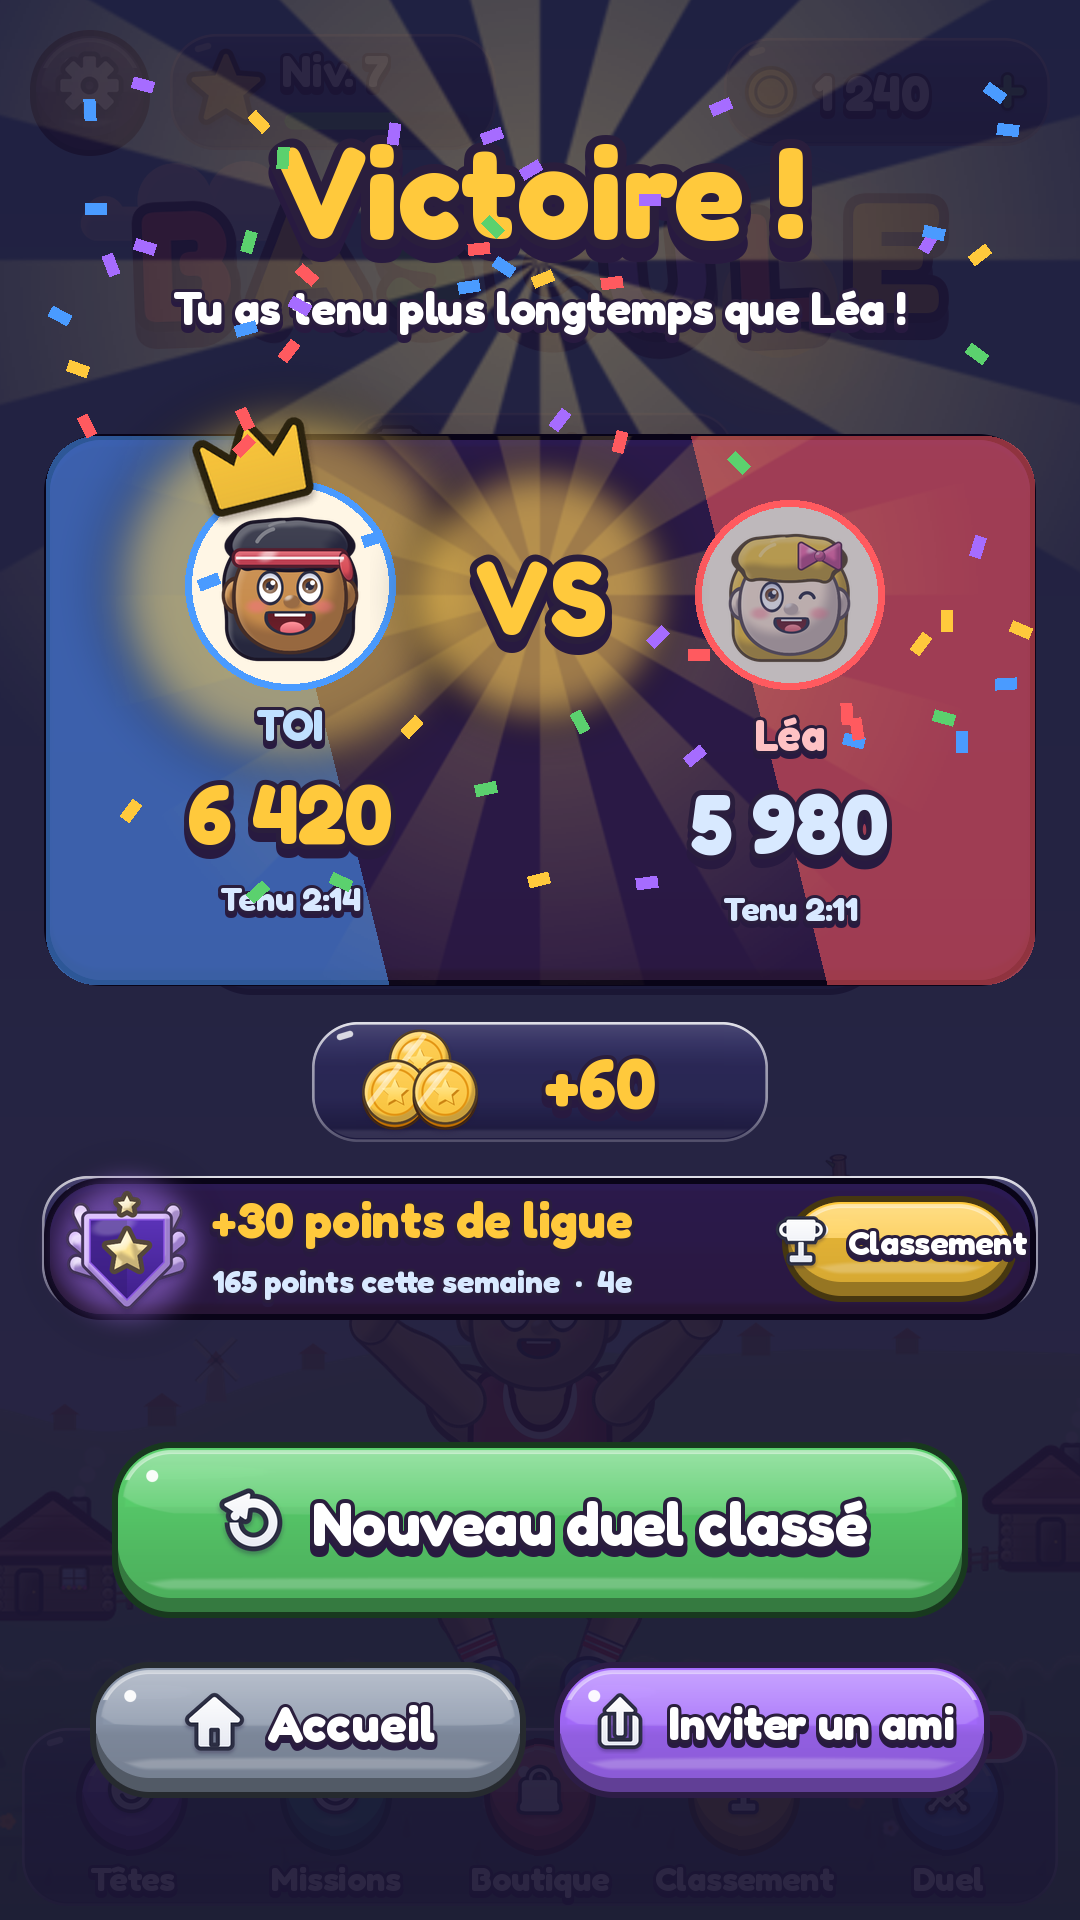
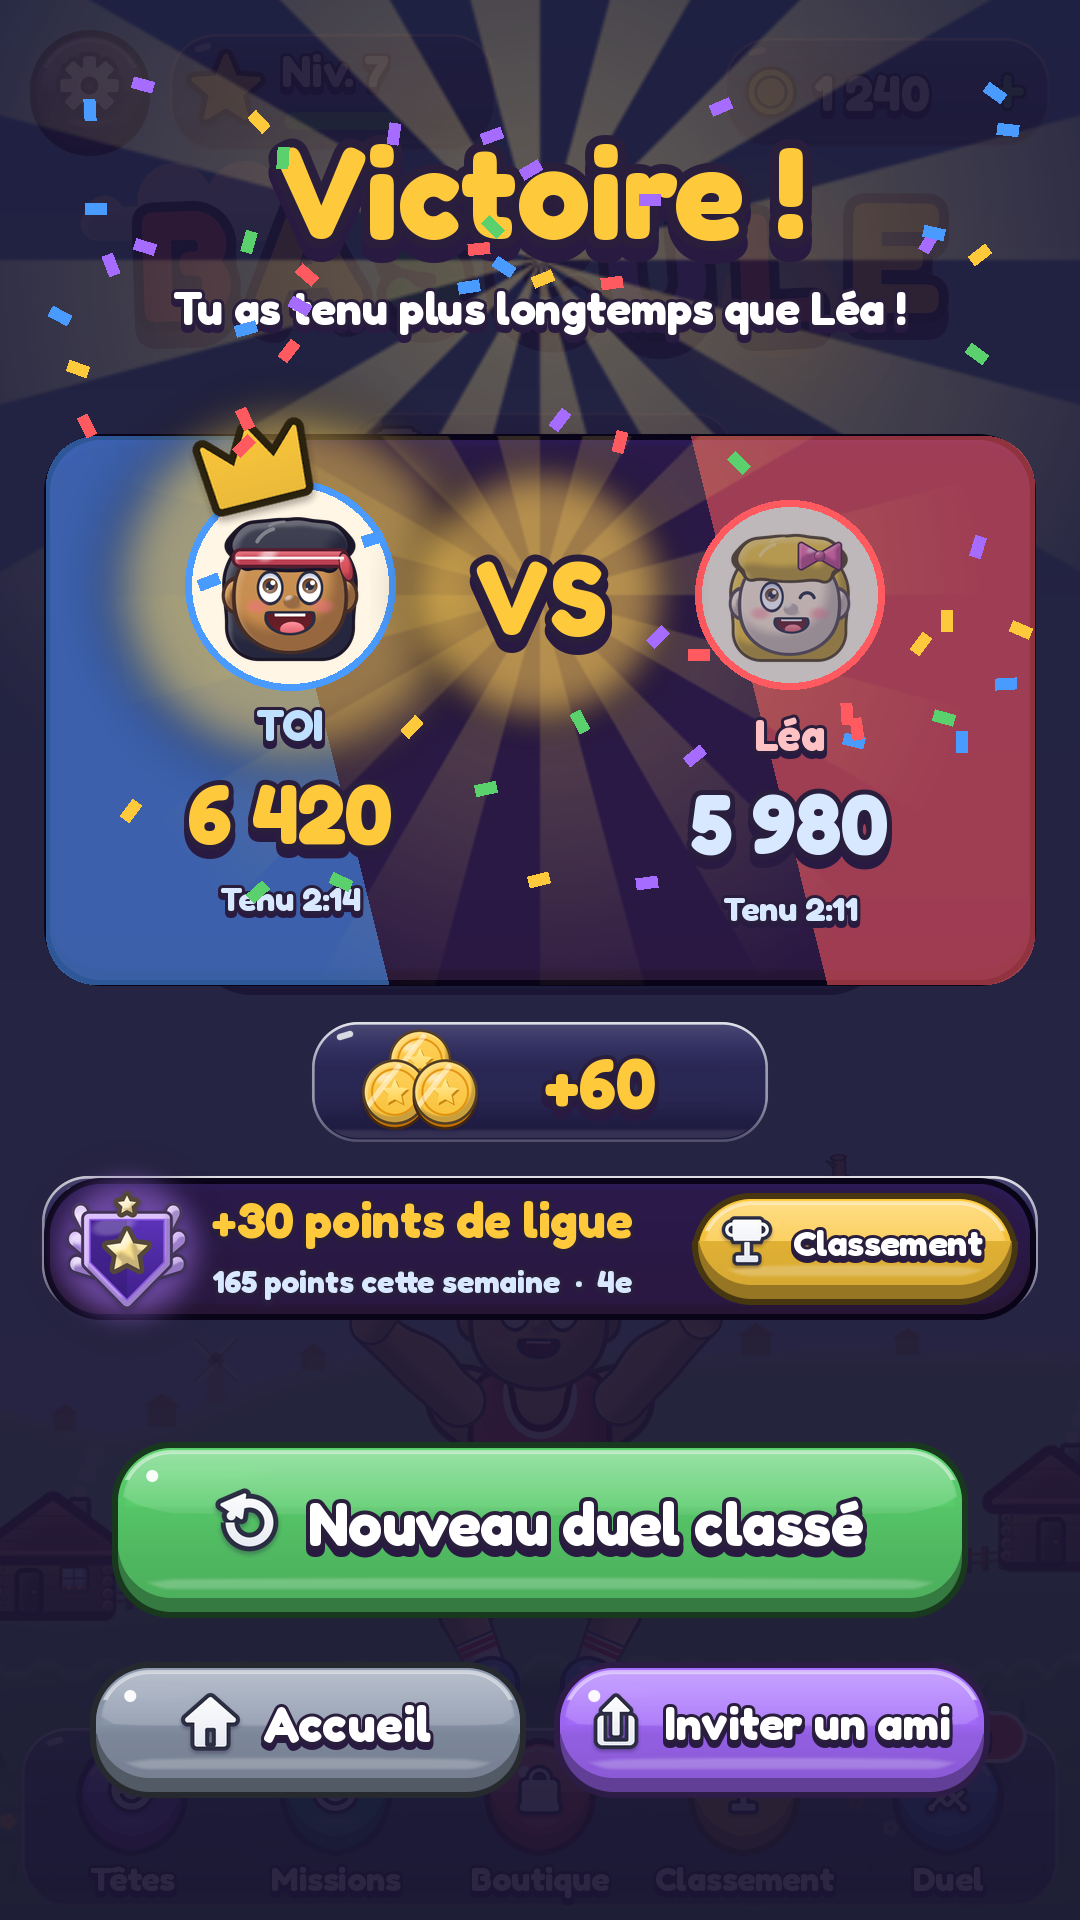
1.5 : boutons « Classement » élargis, contrôle automatique des textes et boutons trop serrés dans les maquettes
- Les maquettes reproduisent maintenant ButtonLayout et FitText (le contenu rétrécit comme dans le jeu) et
  signalent tout bouton ou texte qui doit rétrécir pour tenir : 0 sur les écrans de la 1.5.
- Boutons « Classement » (écran Duel, résultat) : 330 px, icône et mot entiers ; colonnes de texte ajustées.
- Fantôme proposé : texte raccourci, portrait du joueur dont on rejoue la partie ; maquette fidèle à la vraie fenêtre.

Claude-Session: https://claude.ai/code/session_01GjF5pVKpWLsxsJrgQmasFX

diff --git a/Tools/screens_preview_v15.py b/Tools/screens_preview_v15.py
@@ -51,10 +51,10 @@ def league_card(img, box, d, line, reset):
     """Carte « ma ligue » de l'entrée du duel (DuelLobbyScreen.BuildChoice)."""
     sp.card(img, box, tint=hexc(NIGHT))
     badge(img, child(box, 0, 0.5, 106, 0, 140, 140), d)
-    sp.title(img, "Division " + DIV[d][3], child(box, 0, 0.5, 200, 46, 500, 64, 0, 0.5), 50, color=sp.rgb(DIV[d][0]), align="lm")
-    sp.title(img, line, child(box, 0, 0.5, 200, -8, 500, 50, 0, 0.5), 36, color=CREAM, align="lm")
-    sp.title(img, reset, child(box, 0, 0.5, 200, -56, 500, 40, 0, 0.5), 28, color=SKY, align="lm")
-    sp.button(img, child(box, 1, 0.5, -24, 0, 270, 124, 1, 0.5), "Accent", "Classement", "Trophy", 38)
+    sp.title(img, "Division " + DIV[d][3], child(box, 0, 0.5, 200, 46, 440, 64, 0, 0.5), 50, color=sp.rgb(DIV[d][0]), align="lm")
+    sp.title(img, line, child(box, 0, 0.5, 200, -8, 440, 50, 0, 0.5), 36, color=CREAM, align="lm")
+    sp.title(img, reset, child(box, 0, 0.5, 200, -56, 440, 40, 0, 0.5), 28, color=SKY, align="lm")
+    sp.button(img, child(box, 1, 0.5, -24, 0, 330, 124, 1, 0.5), "Accent", "Classement", "Trophy", 36)
 
 
 def duel_choice():
@@ -88,28 +88,31 @@ def duel_search(progress=0.45):
     return s
 
 
-def confirm(img, title, body, yes, no, icon="Swords"):
-    """Fenêtre de confirmation (ConfirmScreen), posée sur l'écran courant."""
+def confirm(img, title, body, yes, no, head):
+    """ConfirmScreen (UI/MetaScreens.cs), mêmes positions : titre, image, texte, deux boutons."""
     img.alpha_composite(Image.new("RGBA", (W, H), (26, 20, 51, 150)))
-    cb = at(0.5, 0.52, 0, 0, 940, 900)
+    cb = at(0.5, 0.5, 0, 40, 920, 1140)
     sp.card(img, cb)
-    db = child(cb, 0.5, 1, 0, -130, 150, 150)
-    disc(img, db, c("Play"))
-    sp.tinted_icon(img, icon, (db[0] + 30, db[1] + 30, db[2] - 30, db[3] - 30), "#FFFFFF")
-    sp.title(img, title, child(cb, 0.5, 1, 0, -270, 860, 90), 60, color=INK, outline=False)
-    y = cb[1] + 340
-    for ln in v14.wrap(img, body, 800, 40):
-        sp.title(img, ln, (cb[0] + 60, y, cb[2] - 60, y + 52), 40, color=MUTED, outline=False)
-        y += 54
-    sp.button(img, child(cb, 0.5, 0, 0, 250, 780, 150), "Play", yes, icon, 50)
-    sp.button(img, child(cb, 0.5, 0, 0, 100, 520, 120), "Muted", no, None, 46)
+    sp.title(img, title, child(cb, 0.5, 1, 0, -100, 840, 140), 70, color=c("Accent"))
+    ib = child(cb, 0.5, 1, 0, -330, 280, 280)
+    img.alpha_composite(sp.load(f"heads/{head:02d}.png").resize((280, 280), Image.LANCZOS), (int(ib[0]), int(ib[1])))
+    # Texte : zone de 800 px de large, de 500 px sous le haut à 300 px du bas (340 px de haut).
+    lines = v14.wrap(img, body, 800, 46)
+    if len(lines) * 56 > 340:
+        sp.TIGHT.append(f"texte de la fenêtre « {title} » : {len(lines)} lignes pour 340 px")
+    y = cb[1] + 500
+    for ln in lines:
+        sp.title(img, ln, (cb[0] + 60, y, cb[2] - 60, y + 52), 46, color=INK, outline=False)
+        y += 56
+    sp.button(img, child(cb, 0.5, 0, 0, 260, 760, 160), "Play", yes, None, 56)
+    sp.button(img, child(cb, 0.5, 0, 0, 100, 560, 120), "Muted", no, None, 48)
 
 
 def duel_ghost_offer():
     s = duel_search(1.0)
     confirm(s.img, "Personne pour l'instant",
-            "Affronte le fantôme de Léa : sa vraie partie, rejouée avec les mêmes poids et les mêmes rafales que toi. Moins de points, mais ça compte !",
-            "Affronter le fantôme", "Plus tard")
+            "Affronte le fantôme de Léa : sa vraie partie, rejouée avec les mêmes poids et les mêmes rafales. Moins de points, mais ça compte !",
+            "Affronter le fantôme", "Plus tard", 14)
     return s
 
 
@@ -235,9 +238,9 @@ def duel_result_ranked():
     # On recouvre l'ancienne bande (même emplacement) par la bande de ligue.
     sp.card(img, lb, tint=hexc(NIGHT))
     badge(img, child(lb, 0, 0.5, 88, 0, 116, 116), 1)
-    sp.title(img, "+30 points de ligue", child(lb, 0, 0.5, 172, 30, 560, 64, 0, 0.5), 50, color=c("Accent"), align="lm")
-    sp.title(img, "165 points cette semaine  ·  4e", child(lb, 0, 0.5, 172, -32, 560, 46, 0, 0.5), 32, color=SOFT, align="lm")
-    sp.button(img, child(lb, 1, 0.5, -20, 0, 240, 110, 1, 0.5), "Accent", "Classement", "Trophy", 34)
+    sp.title(img, "+30 points de ligue", child(lb, 0, 0.5, 172, 30, 470, 64, 0, 0.5), 50, color=c("Accent"), align="lm")
+    sp.title(img, "165 points cette semaine  ·  4e", child(lb, 0, 0.5, 172, -32, 470, 46, 0, 0.5), 32, color=SOFT, align="lm")
+    sp.button(img, child(lb, 1, 0.5, -20, 0, 330, 116, 1, 0.5), "Accent", "Classement", "Trophy", 36)
     sp.button(img, at(0.5, 0, 0, 300, 860, 180, 0.5, 0), "Play", "Nouveau duel classé", "Replay", 60)
     return s
 
@@ -310,6 +313,7 @@ def friend_request():
 
 if __name__ == "__main__":
     os.makedirs(OUT, exist_ok=True)
+    sp.TIGHT.clear()
     shots = {
         "duel_classe_entree": duel_choice(), "duel_classe_recherche": duel_search(), "duel_classe_fantome": duel_ghost_offer(),
         "duel_classe_resultat": duel_result_ranked(), "ligue_classement": league_screen(), "ligue_fin_semaine": league_reward(),
@@ -317,6 +321,11 @@ if __name__ == "__main__":
     }
     for name, s in shots.items():
         s.img.convert("RGB").save(os.path.join(OUT, f"ecran_{name}.png"))
+    # Contrôle : aucun bouton ni texte de ces écrans ne doit être rétréci pour tenir (sinon : agrandir la zone).
+    tight = sorted(set(sp.TIGHT))
+    for t in tight:
+        print("  SERRÉ : " + t)
+    print(f"{len(tight)} élément(s) trop serré(s)")
     keys = list(shots)
     for part, names in (("ecrans_duel_classe_1_5", keys[:4]), ("ecrans_ligue_1_5", keys[4:6]), ("ecrans_amis_1_5", keys[6:])):
         strip = Image.new("RGB", (W * len(names) + 20 * (len(names) + 1), H + 40), (24, 22, 40))

diff --git a/Assets/Bascule/Scripts/Runtime/UI/DuelScreens.cs b/Assets/Bascule/Scripts/Runtime/UI/DuelScreens.cs
@@ -221,16 +221,17 @@ namespace Bascule.UI
             _leagueBadge = LeagueUi.MakeBadge(league.transform, 140);
             Ui.Place(_leagueBadge.Root, 0, 0.5f, 106, 0, 140, 140);
             _leagueDivision = Ui.Title(league.transform, "", 50, Color.white, "Division");
-            Ui.Place(_leagueDivision.rectTransform, 0, 0.5f, 200, 46, 500, 64, 0, 0.5f);
+            Ui.Place(_leagueDivision.rectTransform, 0, 0.5f, 200, 46, 440, 64, 0, 0.5f);
             _leagueDivision.alignment = TextAnchor.MiddleLeft;
             _leagueLine = Ui.Title(league.transform, "", 36, ArtCache.Hex("#FFE9A8"), "Place");
-            Ui.Place(_leagueLine.rectTransform, 0, 0.5f, 200, -8, 500, 50, 0, 0.5f);
+            Ui.Place(_leagueLine.rectTransform, 0, 0.5f, 200, -8, 440, 50, 0, 0.5f);
             _leagueLine.alignment = TextAnchor.MiddleLeft;
             _leagueReset = Ui.Title(league.transform, "", 28, ArtCache.Hex("#BFE0FF"), "Fin");
-            Ui.Place(_leagueReset.rectTransform, 0, 0.5f, 200, -56, 500, 40, 0, 0.5f);
+            Ui.Place(_leagueReset.rectTransform, 0, 0.5f, 200, -56, 440, 40, 0, 0.5f);
             _leagueReset.alignment = TextAnchor.MiddleLeft;
-            var open = Ui.Button(league.transform, Loc.Get("league_open"), Palette.Accent, App.OpenLeague, Icon.Trophy, 38, "Classement");
-            Ui.Place((RectTransform)open.transform, 1, 0.5f, -24, 0, 270, 124, 1, 0.5f);
+            // Assez large pour l'icône et le mot entier, sans rétrécir (contrôlé par Tools/screens_preview_v15.py).
+            var open = Ui.Button(league.transform, Loc.Get("league_open"), Palette.Accent, App.OpenLeague, Icon.Trophy, 36, "Classement");
+            Ui.Place((RectTransform)open.transform, 1, 0.5f, -24, 0, 330, 124, 1, 0.5f);
 
             // ---- Duel classé : le gros bouton, un adversaire trouvé tout seul.
             var ranked = Ui.Button(_choice, Loc.Get("ranked_button"), Palette.Play, App.DuelRanked, Icon.Swords, 70, "DuelClasse");
@@ -896,13 +897,13 @@ namespace Bascule.UI
             _leagueBadge = LeagueUi.MakeBadge(lg.transform, 116);
             Ui.Place(_leagueBadge.Root, 0, 0.5f, 88, 0, 116, 116);
             _leagueGain = Ui.Title(lg.transform, "", 50, Palette.Accent, "Gain");
-            Ui.Place(_leagueGain.rectTransform, 0, 0.5f, 172, 30, 560, 64, 0, 0.5f);
+            Ui.Place(_leagueGain.rectTransform, 0, 0.5f, 172, 30, 470, 64, 0, 0.5f);
             _leagueGain.alignment = TextAnchor.MiddleLeft;
             _leagueTotal = Ui.Title(lg.transform, "", 32, ArtCache.Hex("#D8E9FF"), "Total");
-            Ui.Place(_leagueTotal.rectTransform, 0, 0.5f, 172, -32, 560, 46, 0, 0.5f);
+            Ui.Place(_leagueTotal.rectTransform, 0, 0.5f, 172, -32, 470, 46, 0, 0.5f);
             _leagueTotal.alignment = TextAnchor.MiddleLeft;
-            var board = Ui.Button(lg.transform, Loc.Get("league_open"), Palette.Accent, App.OpenLeague, Icon.Trophy, 34, "Classement");
-            Ui.Place((RectTransform)board.transform, 1, 0.5f, -20, 0, 240, 110, 1, 0.5f);
+            var board = Ui.Button(lg.transform, Loc.Get("league_open"), Palette.Accent, App.OpenLeague, Icon.Trophy, 36, "Classement");
+            Ui.Place((RectTransform)board.transform, 1, 0.5f, -20, 0, 330, 116, 1, 0.5f);
 
             var ch = Ui.Glass(Safe, "Challenger");
             _challengerBand = ch.gameObject;

diff --git a/Tools/scene_preview.py b/Tools/scene_preview.py
@@ -277,12 +277,23 @@ def nine(dst, src, box, border, tint=None, alpha=1.0):
     dst.alpha_composite(out, (l, t))
 
 
+TIGHT = []
+
+
 def title(img, text, box, size, color=(255, 255, 255), align="mm", outline=True):
     d = ImageDraw.Draw(img)
     l, t, r, b = box
     x = {"l": l, "m": (l + r) / 2, "r": r}[align[0]]
     y = (t + b) / 2
     f = font(size)
+    # FitText : un texte plus large que sa zone rétrécit (comme dans le jeu), et on le note s'il rétrécit nettement.
+    width = d.textlength(text, font=f)
+    if r - l > 4 and width > (r - l) + 2:
+        fit = max(12, int(size * (r - l) / width))
+        if fit < size:
+            TIGHT.append(f"texte « {text} » : zone de {int(r - l)} px, taille {size} -> {fit}")
+        size = fit
+        f = font(size)
     if outline:
         sw = max(3, int(size * 0.07))
         d.text((x, y + size * 0.11), text, font=f, fill=(40, 26, 64, 200), anchor=align[0] + "m", stroke_width=sw, stroke_fill=(40, 26, 64, 200))
@@ -298,21 +309,38 @@ def icon(img, name, box):
     img.alpha_composite(im.resize((s, s), Image.LANCZOS), (int((l + r) / 2 - s / 2), int((t + b) / 2 - s / 2)))
 
 
+# Contrôle des maquettes : boutons et textes trop serrés (dans le jeu, ButtonLayout et FitText rétrécissent le contenu
+# pour qu'il tienne ; ici on fait pareil ET on le note, pour corriger la mise en page au lieu de livrer un texte minuscule).
 def button(img, box, color, label=None, ic=None, size=60):
+    """Ui.Button + ButtonLayout : icône et texte centrés ; s'ils ne tiennent pas, l'icône se resserre puis le texte rétrécit."""
     nine(img, load("ui/button.png"), box, (64, 64, 64, 66), tint=COL.get(color, color))
     nine(img, load("ui/gloss.png"), box, (64, 64, 64, 66))  # reflet liquide (Ui.Button)
     l, t, r, b = box
     cl, ct, cr, cb = l + 18, t + 6, r - 18, b - 20
     cy = (ct + cb) / 2
-    isz = max(56, min(120, size * 1.35)) if ic else 0
-    tw = ImageDraw.Draw(img).textlength(label, font=font(size)) if label else 0
-    total = isz + tw + (18 if ic and label else 0)
+    avail_w, avail_h = cr - cl, cb - ct
+    isz = min(max(56, min(120, size * 1.35)), avail_h) if ic else 0
+    gap = 18 if ic and label else 0
+    want = (ImageDraw.Draw(img).textlength(label, font=font(size)) + 8) if label else 0
+    tw, fsize = want, size
+    if label:
+        if ic and want + isz + gap > avail_w:
+            isz = max(isz * 0.66, min(isz, avail_w - want - gap))
+            gap = 18 * 0.6
+        tw = max(1, min(want, avail_w - isz - gap))
+        if tw < want:
+            fsize = max(12, int(size * tw / want))
+        if fsize < size or (ic and isz < min(max(56, min(120, size * 1.35)), avail_h) - 0.5):
+            TIGHT.append(f"bouton « {label} » : {int(r - l)} px de large, texte {size} -> {fsize}, icône {int(isz)}")
+    elif ic and isz > avail_w:
+        isz = avail_w
+    total = isz + gap + tw
     x = (cl + cr) / 2 - total / 2
     if ic:
         icon(img, ic, (x, cy - isz / 2, x + isz, cy + isz / 2))
-        x += isz + 18
+        x += isz + gap
     if label:
-        title(img, label, (x, cy - size / 2, x + tw, cy + size / 2), size, align="lm")
+        title(img, label, (x, cy - fsize / 2, x + tw, cy + fsize / 2), fsize, align="lm")
 
 
 def card(img, box, tint=None):

diff --git a/Assets/Bascule/Scripts/Core/Loc.cs b/Assets/Bascule/Scripts/Core/Loc.cs
@@ -665,7 +665,7 @@ namespace Bascule.Core
             ["ranked_again"] = new[] { "Nouveau duel classé", "New ranked duel" },
             ["ranked_offline"] = new[] { "Connecte-toi à Internet pour le duel classé.", "Go online for ranked duels." },
             ["ranked_none_title"] = new[] { "Personne pour l'instant", "Nobody right now" },
-            ["ranked_none_body"] = new[] { "Affronte le fantôme de {0} : sa vraie partie, rejouée avec les mêmes poids et les mêmes rafales que toi. Moins de points, mais ça compte !", "Face {0}'s ghost: their real game, replayed with the same weights and gusts as you. Fewer points, but it counts!" },
+            ["ranked_none_body"] = new[] { "Affronte le fantôme de {0} : sa vraie partie, rejouée avec les mêmes poids et les mêmes rafales. Moins de points, mais ça compte !", "Face {0}'s ghost: their real game, replayed with the same weights and gusts. Fewer points, but it counts!" },
             ["ranked_none_yes"] = new[] { "Affronter le fantôme", "Face the ghost" },
             ["ranked_none_no"] = new[] { "Plus tard", "Later" },
             ["ranked_none_toast"] = new[] { "Personne pour l'instant. Réessaie dans un moment !", "Nobody right now. Try again in a moment!" },

diff --git a/Assets/Bascule/Scripts/Runtime/GameApp.cs b/Assets/Bascule/Scripts/Runtime/GameApp.cs
@@ -918,7 +918,8 @@ namespace Bascule
             _duelLobby.Refresh();
             if (g == null) { _toast.Say(Loc.Get("ranked_none_toast"), 3.5f); return; }
             string name = DuelRules.CleanName(g.Who.Name, Loc.Get("lb_player"));
-            _confirm.Ask(Loc.Get("ranked_none_title"), Loc.Format("ranked_none_body", name), Art.IconSprite(Icon.Swords),
+            // Le portrait du joueur dont on rejoue la partie.
+            _confirm.Ask(Loc.Get("ranked_none_title"), Loc.Format("ranked_none_body", name), Art.Portrait(HeadCatalog.Get(g.Who.Head)),
                 Loc.Get("ranked_none_yes"), () => StartGhostDuel(g), Loc.Get("ranked_none_no"), null);
         }
 

diff --git a/CLAUDE.md b/CLAUDE.md
@@ -12,7 +12,7 @@ Jeu mobile Unity 6 (portrait, Android/iOS). Le cahier des charges et les choix f
 ## Vérifier sans Unity (SDK .NET 8)
 - `dotnet test Tests/Bascule.Core.Tests` : tests des règles.
 - `dotnet test Tests/Bascule.Duel.Tests` : duels simulés (vrai `DuelController`, faux réseau : 4G, Snap, pauses, abandons, duel classé, fantômes…). Toute modification du duel doit y passer ; un nouveau bug de duel = un nouveau scénario.
-- Duel classé, ligues et fantômes : `docs/LIGUES.md` (règles dans `Core/League.cs`, réglages `league` du tuning, classement en ligne `bascule_ligue` à créer une fois). Aperçus 1.5 : `python3 Tools/screens_preview_v15.py Exports/art docs/apercu`.
+- Duel classé, ligues et fantômes : `docs/LIGUES.md` (règles dans `Core/League.cs`, réglages `league` du tuning, classement en ligne `bascule_ligue` à créer une fois). Aperçus 1.5 : `python3 Tools/screens_preview_v15.py Exports/art docs/apercu`. Ce script reproduit `ButtonLayout` et `FitText` et affiche « SERRÉ » pour tout bouton ou texte qui doit rétrécir pour tenir : il doit finir par « 0 élément(s) trop serré(s) », sinon agrandir la zone dans le code de l'interface ET dans la maquette.
 - `dotnet build Tools/CompileCheck` : compile Core et Runtime contre les DLL de référence Unity (NuGet). Ajouter `-p:ExtraDefines=UNITY_ANDROID` pour vérifier le code Android.
 - `python3 Tools/balance_sim.py 20` : simulation d'équilibrage (pymunk).
 - `python3 Tools/game_library.py 80` puis `python3 Tools/player_sim.py 1000 60` : modèle de 1000 joueurs (rétention, pubs, achats). Garder `player_sim.py` (DESIGNS["apres"], paliers, prix) synchronisé avec `Core/Economy.cs` et `Core/HeadCatalog.cs`.
